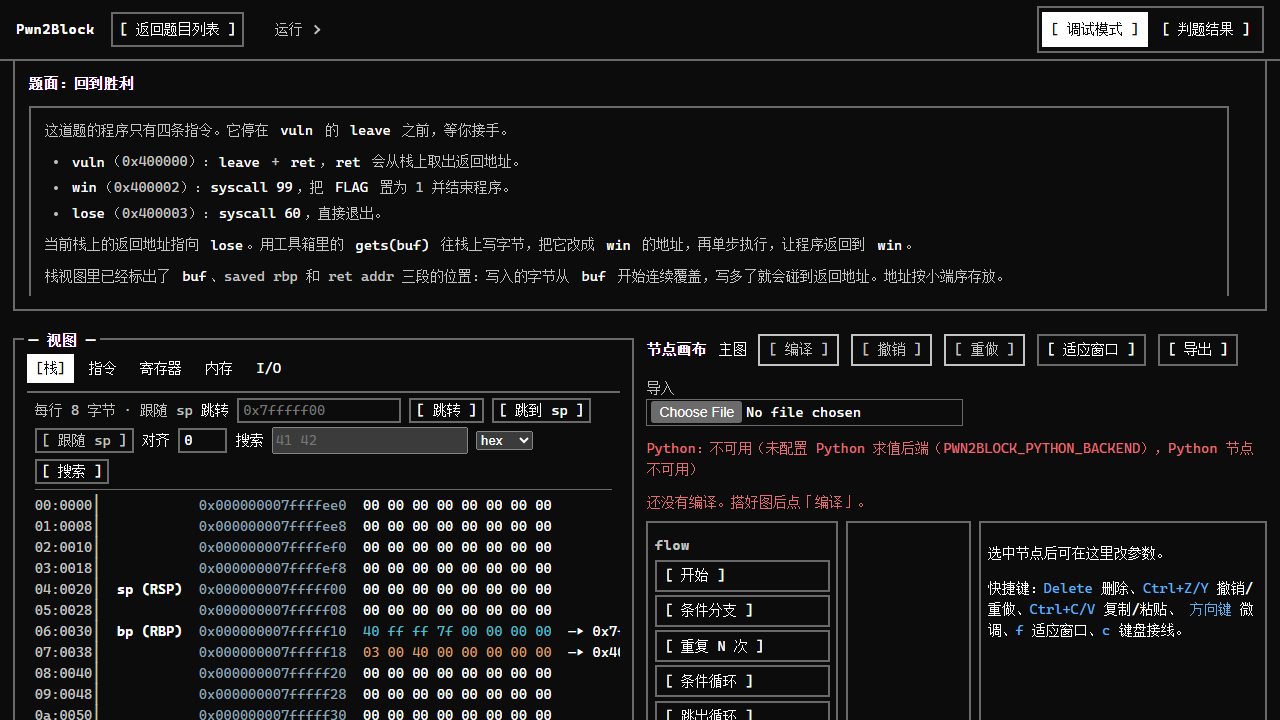
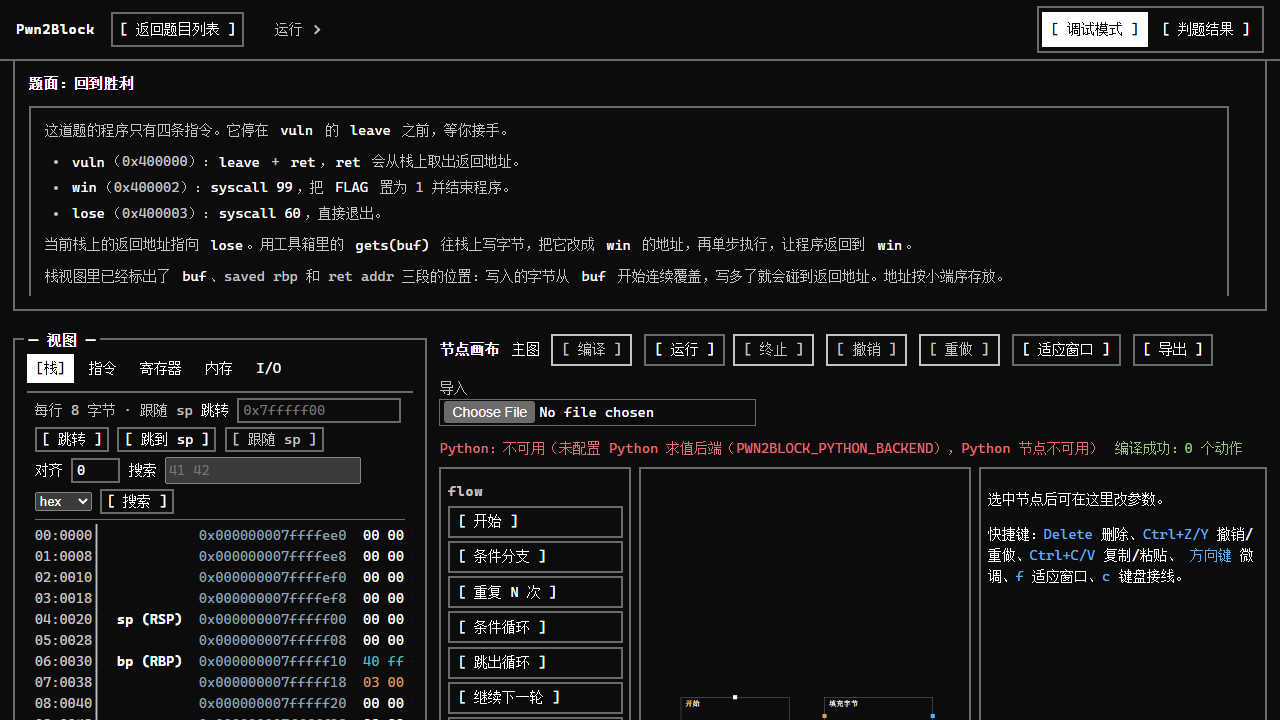
docs: 收尾节点画布与 Python 数据处理实施计划

Changed region(s): [[0.0312, 0.4583, 0.9688, 1.0], [0.75, 0.7333, 0.9688, 0.8861]]

diff --git a/docs/02-已实现需求.md b/docs/02-已实现需求.md
@@ -10,10 +10,10 @@
 - 查看栈、指令、寄存器、内存（含 VMA）和标准 I/O 等状态。视图区一次只显示一个视图，用固定标签切换（本题没有 I/O 时不显示该标签）；标签栏支持 ←/→/Home/End，页面上任意非输入位置可用 Ctrl+↑/↓ 循环。当前标签存在浏览器本地 `p2b:view-tab`，所有题目共用，读取失败或值非法时回到「栈」。
 - 题目带伪代码时，可在视图区的「伪代码」标签页查看出题人写的伪代码（等宽、只读，按 C 语法着色：注释、预处理指令、字符串、数字、关键字、类型、函数名）；没有伪代码的题目不显示该标签。
 - 使用 `write_bytes`、`push`、`pop`、`call`、`ret`、`feed`、`step`、`run`、`undo`、`step_back`、`reset` 等动作。
-- 在 Blockly 中组合 padding、字节、地址、原子动作和题目积木。
-- 改动积木后在浏览器内自动编译为受限的原子动作，不需要手动编译；编译错误列在页面底部的输出区，点击可定位问题积木。原来的程序区已删除。
+- 在节点画布中组合 padding、字节、地址、原子动作、控制流、模块和题目积木。
+- 改动节点后在浏览器内自动编译为受限的原子动作，也可点「编译」重跑；编译错误列在页面底部的输出区，点击「定位」会展开容器并选中问题节点。没有独立程序区。
 - 点 payload 标题栏的「运行」执行整段 payload：先 `reset`，再按单次请求上限分片发送完整动作序列，末尾不补 `run`，与提交判题回放的是同一份序列；画布为空时发 `reset` + `run`。运行中可点「终止」，它只在浏览器侧停止发送后续分片，已发出的请求照常生效，状态栏显示「已终止：执行到动作 n/m」。单步、运行 N 步、后退、撤销、重置和提交判题在顶栏「运行」菜单里。在输出区和状态栏查看失败原因、错误定位、状态变化和回放录像。
-- 逐级查看提示；提示和 Blockly 程序可以按题目保存在浏览器本地。
+- 逐级查看提示；提示和节点画布可以按题目保存在浏览器本地。
 - 提交 payload 进行独立判题；判胜后查看并复制 flag，失败后回到调试继续修改。
 - 刷新页面后恢复已有服务端状态和前端程序指针（在会话仍有效时）。
 
@@ -37,16 +37,16 @@
 - Fastify API 和构建后的前端静态资源可以由单进程提供。
 - 已有单元、集成、验收和浏览器 E2E 测试覆盖核心闭环、边界和安全契约。
 
-## 节点画布（P1–P4、P7，模块进行中）
+## 节点画布与 Python 数据处理（P0–P9 已完成）
 
-节点画布与 Python 数据处理的实施状态见 [07-实施计划](07-节点画布与Python数据处理实施计划.md) 与 [08-技术决策](08-节点画布技术决策.md)。目前已经落地：
+节点画布与 Python 数据处理的实施状态见 [07-实施计划](07-节点画布与Python数据处理实施计划.md) 与 [08-技术决策](08-节点画布技术决策.md)。目前已落地：
 
 - **图模型**：`GraphDocument`（节点、参数、数据连线、执行序列 `main`、布局）有 zod Schema 与版本号，解析失败给出可定位的问题列表；节点种类按阶段列出，参数与端口由节点规格派生。
 - **编译管线**：`compileGraph` 是异步、可取消的纯本地计算：按依赖求值数据节点（整数、字节、地址、拼接、十六进制、算术、比较、位运算、截取、组装、条件选值等），按执行序列生成既有动作协议；成功给出完整产物（动作、来源、预览、追踪），失败列出带节点 id 的错误，绝不发送半成品。求值与动作额度沿用 `packages/shared/src/limits.ts`。
-- **画布与编辑**：`?editor=graph` 打开新画布（工具箱、画布、检查器、编译状态）。支持加删节点、拖动、框选、数据端口拖线、类型/成环校验、双击线断开、执行端口拖动调整顺序、撤销重做、复制粘贴、键盘接线与快捷键；文档按题目存浏览器本地，坏存档退回空图。容器可以折叠（只改布局、可撤销，双击容器或检查器切换），折叠后子节点、区域框与相关连线一起隐藏；缩放低于阈值时隐藏端口名与副标题，只留节点骨架。
+- **画布与编辑**：节点画布是默认且唯一入口（工具箱、画布、检查器、编译状态）。支持加删节点、拖动、框选、数据端口拖线、类型/成环校验、双击线断开、执行端口拖动调整顺序、撤销重做、复制粘贴、键盘接线与快捷键；文档按题目存浏览器本地，坏存档显示原因并保留原文，不会静默退回空图。容器可以折叠（只改布局、可撤销，双击容器或检查器切换），折叠后子节点、区域框与相关连线一起隐藏；缩放低于阈值时隐藏端口名与副标题，只留节点骨架。
 - **分支、循环与变量（P4）**：`control.if`（含「否则如果」链）、`control.repeat`、`control.while/until` 是占据执行位置的容器，子序列存在 `regions` 里；`control.result` 给出容器结果，声明了结果的容器必须在每条可达路径末尾都有结果。`control.break`/`continue` 作用于最近一层循环，`control.index` 给从 0 开始的本轮序号，`control.accumulator` 读上一轮累计值，零次循环结果等于初始值。变量按作用域静态校验（重复声明、未声明、类型不符），运行时按层解析并在赋值后更新缓存版本。循环每轮重算动态依赖（缓存键含作用域、轮次和变量版本），整图共享求值/轮次/动作预算；容器在画布上画出区域框，可把语句拖进区域或「移出容器」，这些编辑都可撤销。
 - **Python 求值服务（P6）与节点接入（P7）**：服务端新增求值接口与隔离运行器，后端可配置为 `none`（默认，明确报不可用）、`docker`（唯一可声称隔离的后端）或 `process`（仅开发，`isolated=false`）；超时、内存、输出、并发、排队与每次编译次数均有上限。运行器自带常用打包与定位序列工具，服务端校验请求后只回值或节点级错误码。画布面板读取 `GET /api/capabilities` 并显示后端与隔离状态；编译经可替换的 `PythonEvaluator` 发 `POST /api/python/eval`，带整图取消信号，语义编辑会取消在途请求，迟到结果不覆盖新产物。没有可用求值器时 Python 节点明确报 `python_unavailable`，不会退回浏览器执行。内置「生成定位序列」「查找序列偏移」与 Python 侧同名工具共用 `shared` 的字母表、宽度与编码规则。
 
-- **模块调用与提取（P5 部分）**：`GraphDocument.modules` 里可以定义数据模块与流程模块（类型化输入、默认可选值、说明、固定版本），调用节点 `module.data` / `module.call` 钉住 `id + 版本`，编译期把模块体展开进当前序列，动作与来源照常生成；模块体有独立作用域与求值缓存，两次调用互不污染，求值步数、循环轮次与 Python 次数仍与主图共享。校验拒绝缺失版本、种类不符、端口不一致、直接/间接递归与超过 4 层的嵌套，数据模块里出现动作或控制结构直接报错。画布可从选区「提取为模块」：要求同一区域连续、容器选全、至多一个外部数据消费者，外部输入/输出改写成调用端口，整步可撤销；选区含动作或控制结构时生成流程模块（可以没有结果），否则生成数据模块。调用节点在检查器里可「升级到 vN」，先比对输入集合、结果有无与类型、调用节点声明的端口，不兼容就拒绝并保留原版本；新版本不会自动影响已有调用。工具箱会列出已定义模块（名称、版本、调用次数），点一下插入填好参数的调用节点。画布支持分组：选中两个以上节点即可框成一组，组只影响显示，不改变执行顺序，删除节点后自动裁掉悬空成员。参数可从「手填」切到「接线」：手填会断开该端口连线，接线缺线时编译报错，手填却仍有线只给警告；按偏移组装的节点逐段显示偏移、长度与来源。**尚未做**：模块编辑界面与面包屑。
-
-**运行链路**：画布编译成功后把动作与来源写进同一个产物追踪器，运行、单步、提交、终止沿用原控制器与分片规则；语义编辑会标记产物过期并取消在途请求。默认入口仍是积木（`?editor=graph` 才是画布），判题仍由后端权威判定，等 P9 统一切换默认入口。
+- **模块调用与提取（P5）**：`GraphDocument.modules` 里可以定义数据模块与流程模块（类型化输入、默认可选值、说明、固定版本），调用节点 `module.data` / `module.call` 钉住 `id + 版本`，编译期把模块体展开进当前序列，动作与来源照常生成；模块体有独立作用域与求值缓存，两次调用互不污染，求值步数、循环轮次与 Python 次数仍与主图共享。校验拒绝缺失版本、种类不符、端口不一致、直接/间接递归与超过 4 层的嵌套，数据模块里出现动作或控制结构直接报错。画布可从选区「提取为模块」：要求同一区域连续、容器选全、至多一个外部数据消费者，外部输入/输出改写成调用端口，整步可撤销；选区含动作或控制结构时生成流程模块（可以没有结果），否则生成数据模块。调用节点在检查器里可「升级到 vN」，先比对输入集合、结果有无与类型、调用节点声明的端口，不兼容就拒绝并保留原版本；新版本不会自动影响已有调用。工具箱会列出已定义模块（名称、版本、调用次数），点一下插入填好参数的调用节点。点面包屑或双击调用可进模块体编辑，返回后主图恢复；来源定位会切进对应模块实例。画布支持分组：选中两个以上节点即可框成一组，组只影响显示，不改变执行顺序，删除节点后自动裁掉悬空成员。参数可从「手填」切到「接线」：手填会断开该端口连线，接线缺线时编译报错，手填却仍有线只给警告；按偏移组装的节点逐段显示偏移、长度与来源。
+- **存档迁移与来源定位（P8）**：存档是带格式、版本、题目、固定版本依赖与文档的包装（`pwn2block.graph-save`），按题目写入独立新键 `pwn2block.graph.v1.<challengeId>`；早期裸文档键和旧 Blockly 键只读保留。旧 Blockly workspace 按白名单单向转换，变量、控制、字节与动作语义尽量保留，不支持项整体拒绝并给出原因，迁移失败不清空也不覆盖原文，可导出 JSON。定位支持节点、模块实例、分支路径和循环轮次，只改布局（展开容器/模块、切视图、选中目标），不重算语义；编译轨迹与数据分段可点击高亮，执行/判题高亮绑定当时的产物版本，编辑后不会误指新图。判题时间线明确是历史录像，不用当前图重算，也不承诺重放 Python。
+- **运行链路与验收（P9）**：画布编译成功后把动作与来源写进同一个产物追踪器，运行、单步、提交、终止沿用原控制器与分片规则；语义编辑会标记产物过期并取消在途请求。Blockly 界面、`payload-panel.ts` 与运行时依赖已删除。真实浏览器 E2E 覆盖画布构造 payload、错误提交、判胜、刷新恢复、编译错误定位、坏存档保留，以及 1280×720 / 1440×900 / 1920×1080 三尺寸布局与键盘路径。

diff --git a/docs/08-节点画布技术决策.md b/docs/08-节点画布技术决策.md
@@ -44,9 +44,9 @@
 - **结果只从协议来**：运行器 stdout 必须是一行符合 `PythonRunnerResultSchema` 的 JSON；
   类型、大小、请求标识都在服务端再校验一遍，对不上就丢弃（迟到结果）。
 
-**现在还不能声称**：本文写作时只在开发机上验证到"后端可切换、协议正确、超时/配额/取消生效"；
-"Docker 后端在目标部署环境跑通、且确实无法访问宿主秘密/网络"需要在部署环境重跑并留证据。
-开发机没有 Docker 时相关用例跳过，跳过不等于通过。
+**现在还不能声称**：开发机（Docker Desktop）与 CI 已用真实 `python:3.12-alpine` 跑通 7 项 Docker 隔离用例；
+"目标部署环境确实无法访问宿主秘密/网络"仍需在部署环境重跑并留证据。CI 用
+`PWN2BLOCK_REQUIRE_PYTHON=1` 把缺镜像从 skip 改为失败；本地无 Docker 时相关用例跳过，跳过不等于通过。
 
 **运行器细节**（`packages/python-runner/`）：
 
@@ -68,7 +68,7 @@
 - Windows 没有 `resource` 模块，RLIMIT 行为只覆盖了降级分支。
 
 **证据**：`packages/server/test/python.test.ts`（桩运行器覆盖协议与配额）、
-`packages/server/test/python-real.test.ts`（真实解释器用例，缺解释器或 Docker 时显式跳过）、
+`packages/server/test/python-real.test.ts`（真实解释器与 Docker 用例；CI 缺后端时显式失败）、
 `packages/python-runner/test_runner.py`（33 条运行器自测）、`packages/python-runner/README.md`。
 
 ## 3. 首批 Python 工具：内置实现，不依赖 pwntools
@@ -83,15 +83,19 @@
 **边界**：跑在运行器里的代码仍然可以 `import` 标准库——系统隔离由容器提供，
 不以"禁用 import"冒充隔离（07 §2）。
 
-## 4. 旧存档迁移：两套存档并存，P8 做单向转换
+## 4. 旧存档迁移：新键只读迁移，旧键永不覆盖
 
-**现状**：Blockly 存档键不变；新画布把 `GraphDocument` 存到
-`pwn2block.graph.<challengeId>`（`components/graph-panel.ts`），两者互不影响。
+**现状（P8 收尾）**：新画布把带格式、版本、题目和依赖的存档写到
+`pwn2block.graph.v1.<challengeId>`；早期裸文档键 `pwn2block.graph.<challengeId>` 与旧 Blockly 键
+`pwn2block.canvas.v1.<challengeId>` 都保留。读取顺序是新键 → 过渡键 → Blockly 键；新键存在但损坏时
+直接报错并保留原文，**不回退**到旧键，避免用户以为旧内容还在。
 
-**P8 计划**：读取旧 workspace → 按支持的积木白名单单向转换成 `GraphDocument` →
-转换失败时**保留原文**并给出导出/提示，不删除旧键、不静默丢弃。
+**迁移**：旧 workspace 按支持的积木白名单单向转成 `GraphDocument`：变量在 `main` 顶部声明为整数 0，
+`vars_set` 转 `var.set`，控制结构展开成 `regions`，字节与动作保持原语义。未知积木、多入口/无入口、
+只读变量或字节变量会拒绝整次迁移并列出原因；失败时原文不删除、不覆盖，面板提供导出 JSON。
 
-**盘点结论**：当前仓库没有需要迁移的外部存档（单机项目、无 remote），实际存档盘点在 P8 开始前完成。
+**不承诺**：迁移只保证受支持积木的动作等价，不保留 Blockly 的视觉布局；旧键不会被清理，回退版本
+仍按旧格式读取，不会声称能编辑新格式的模块/Python 功能。
 
 ## 5. 执行额度：定义在 shared，前后端共用
 
@@ -113,9 +117,11 @@
 **口径一致**：前端求值器与服务端共用同一组常量；服务端对客户端传入的每个请求再校验一次，
 不假设客户端守规矩。
 
-## 6. 已知未做
+## 6. 收尾状态
 
-- 画布默认入口仍是积木，新画布在 `?editor=graph` 后面；运行与提交在 P9 切换。
-- Python 结果目前只进编译预览，尚未接入“运行/提交”链路（P7/P9）。
-- 模块目前只能提取纯数据选区；流程模块提取、模块列表/面包屑、显式升级与端口兼容性预检未做（P5 剩余）。
-- 容器分组与存档迁移（P8）未开始。
+P0–P9 已全部完成（2026-11-05）：画布是默认且唯一的 payload 编辑器，Blockly 界面与运行时依赖已删除；
+运行、单步与提交都消费画布产物；旧存档只读迁移保留。真实浏览器 E2E 覆盖画布判胜、错误定位、
+坏存档保留、键盘与三种桌面尺寸，CI 同时跑真实 Docker 隔离与画布 E2E。
+
+仍需在**目标部署环境**按 [09-部署与诊断](09-Python求值部署与诊断.md) 复跑隔离验收；开发机与 CI
+已用真实镜像通过，但宿主 Docker/内核配置不同，不能用开发机结果替代部署验证。

diff --git a/README.md b/README.md
@@ -1,6 +1,6 @@
 # Pwn2Block
 
-面向 CTF 新生赛的内存可视化 Pwn 实验室。学习者用 Blockly 积木拼装 payload，交给后端权威 VM 执行，观察栈、寄存器、指令和 I/O 的变化，在过程中理解栈帧、缓冲区溢出和返回地址劫持。
+面向 CTF 新生赛的内存可视化 Pwn 实验室。学习者用节点画布拼装 payload，交给后端权威 VM 执行，观察栈、寄存器、指令和 I/O 的变化，在过程中理解栈帧、缓冲区溢出和返回地址劫持。
 
 它不是浏览器里的 Linux 或 x86 模拟器，只实现教学所需的受控指令、内存区域（VMA）、syscall 和判题能力。
 
@@ -8,7 +8,7 @@
 
 1. 选一道题，阅读题面和公开内存布局。
 2. 在调试实例里单步、运行、后退、撤销，观察状态变化。
-3. 用积木组合 padding、字节、地址和原子动作，改动后自动编译。
+3. 在节点画布上用字节、地址、运算、分支/循环和题目动作拼装 payload，改动后在浏览器内自动编译。
 4. 提交判题：服务端从初始状态回放 payload，判胜后下发 flag。
 
 调试实例里的「已满足」只表示当前试验状态满足条件，不发 flag；只有判题实例的回放结果算数。
@@ -43,6 +43,7 @@ node --env-file=.env.example --import tsx packages/server/src/index.ts
 - 每道题的 flag 变量名是 `FLAG_<ID大写>`，例如 `FLAG_RET2WIN`。缺失或为空时该题拒绝加载。
 - 端口用 `PORT` 覆盖，默认 8787；监听地址固定为 `127.0.0.1`。
 - 会话只存在服务端内存里，重启后丢失。
+- Python 节点默认不可用；要在部署环境启用隔离求值，按 [09-Python 求值部署与诊断](docs/09-Python求值部署与诊断.md) 配置 `PWN2BLOCK_PYTHON_BACKEND=docker` 并准备镜像。普通 `process` 后端只用于开发，不算隔离。
 
 开发时用 `pnpm dev` 同时起 server 和 Vite（5173 端口，`/api` 代理到后端），同样需要先在环境中设置 `FLAG_*`。
 
@@ -80,7 +81,7 @@ node --env-file=.env.example --import tsx packages/server/src/index.ts
 packages/shared/     前后端共享的类型与 Schema
 packages/engine/     VM 引擎：纯函数 + COW 内存，不依赖 HTTP
 packages/server/     Fastify：题目加载、会话、REST、静态托管
-packages/web/        Vite + Lit + Blockly 单页应用
+packages/web/        Vite + Lit 单页应用：节点画布、状态视图与回放
 packages/authoring/  出题 CLI：new、asm、check、solve
 challenges/          题目包（public.json 对外，private.json 只在服务端）
 presets/             默认编码表
@@ -95,6 +96,8 @@ presets/             默认编码表
 - [基本架构](docs/01-基本架构.md)：分层、请求流和安全边界
 - [已实现需求](docs/02-已实现需求.md) / [未实现需求](docs/03-未实现需求.md)
 - [已完成工作](docs/04-已完成工作.md) / [未完成工作](docs/05-未完成工作.md)
+- [节点画布与 Python 数据处理需求](docs/06-节点画布与Python数据处理需求.md) / [实施计划](docs/07-节点画布与Python数据处理实施计划.md) / [技术决策](docs/08-节点画布技术决策.md)
+- [Python 求值部署与诊断](docs/09-Python求值部署与诊断.md)
 - [MVP 归档](docs/archive/mvp-2026-10-16/README.md)：VM、题目包格式、API、出题指南、部署说明等详细规范
 
 贡献约定（分支、提交、测试要求）见 [CLAUDE.md](CLAUDE.md)。flag 真值、`.env` 和凭证不得进 git。

diff --git a/docs/05-未完成工作.md b/docs/05-未完成工作.md
@@ -9,7 +9,7 @@ MVP 已完成，以下事项是后续收尾或增强工作，不改变当前 MVP
 - **T03**：补齐 stdin/stdout 4KB 边界和多请求累计限制验证。
 - **T04**：补齐未声明 syscall 调用号的专项拒绝验证。
 - **T05**：补齐更多位宽、权限、请求交错、错误路径、长时间资源压力及其他桌面浏览器复测。
-- **T06**：把覆盖率门槛和真实 E2E 纳入 CI 的强制门禁，并形成一次完整回归记录。
+- **T06**：把覆盖率门槛纳入 CI 的强制门禁。真实 E2E 已进 CI（生产构建 + 真实后端 + Python 隔离），仍缺引擎覆盖率阈值检查。
 
 这些是专项验证和证据收口，不代表对应核心功能不存在。
 
@@ -21,7 +21,7 @@ MVP 已完成，以下事项是后续收尾或增强工作，不改变当前 MVP
 - 补充 Linux/macOS 的真实部署验证；目前已有命令和语法检查，但主要运行证据来自 Windows。
 - 评估前端构建产物拆包和长期运行资源占用，处理已记录的构建体积警告。
 - 前端 TUI 化遗留项：
-  - 体量：`viewmodel/controller.ts`（约 950 行）和 `tests/e2e/closed-loop.spec.ts`（约 1160 行）仍超过 800 行上限，需要按功能拆分。
+  - 体量：`viewmodel/controller.ts`（约 950 行）仍超过 800 行上限，需要按功能拆分；`tests/e2e/closed-loop.spec.ts` 已随画布重写拆到约 160 行。
   - 交互：
     - 「运行 / 终止」聚焦时，较长的禁用原因可能盖住面板标题。
     - 运行进行中点「返回题目列表」没有反馈。
@@ -35,10 +35,9 @@ MVP 已完成，以下事项是后续收尾或增强工作，不改变当前 MVP
 
 ## 3. 下一阶段产品工作
 
-- **节点画布与 Python 数据处理**：P3、P5 已全部完成；按 [07-实施计划](07-节点画布与Python数据处理实施计划.md) 继续 P8、P9，具体剩余项见 [03-未实现需求](03-未实现需求.md) 末节与 [08-技术决策](08-节点画布技术决策.md)；Python 部署口径见 [09-部署与诊断](09-Python求值部署与诊断.md)。其中三件要优先补上证据：
-  - Docker 后端在目标部署环境的隔离验证（无 Docker 时的跳过不算通过）。
-  - 画布在真实浏览器里的交互验收：缩放锚点、框选、键盘接线、卸载重建。
-  - 画布产物接入运行/提交链路后的回归，确认与积木路径行为一致（接线已完成，缺真机浏览器验收）。
+- **节点画布与 Python 数据处理**：P0–P9 已全部完成，画布是默认且唯一的 payload 编辑器。后续只需补两类证据：
+  - Docker 后端在**目标部署环境**的隔离验证（开发机与 CI 已跑通，无 Docker 时的跳过不算通过）。
+  - 人工视觉/读屏验收记录；1280×720、1440×900、1920×1080 的自动截图与布局/键盘断言已在 `pnpm e2e` 中。
 - 先设计持久化、认证、权限和成绩模型，再实现账号和进度功能。
 - 设计题目版本、发布、审核和签名机制，再开放更大范围的题目协作。
 - 在确认多用户隔离和资源治理方案后，再考虑公网部署、赛事模式和平台集成。

diff --git a/docs/03-未实现需求.md b/docs/03-未实现需求.md
@@ -1,4 +1,4 @@
-# Pwn2Block 未实现需求
+# Pwn2Block 未实现需求
 
 下面是明确不属于当前 MVP、目前没有实现的需求。它们不是 MVP 缺陷；如要实现，应单独立项并重新定义安全和数据契约。
 
@@ -27,18 +27,19 @@
 
 ## 前端与体验
 
-- Blockly 的完整无障碍键盘导航。
+- 节点画布的完整无障碍键盘导航与真实读屏验收（当前有键盘操作与焦点管理，但没有读屏报告）。
 - 其他浏览器和移动端的完整适配。
 - 面向生产的性能拆包、长期压力优化和可观测性面板。
 
-## 节点画布与 Python 数据处理（进行中）
+## 节点画布与 Python 数据处理（已完成）
 
-这些是已立项、正在按 [07-实施计划](07-节点画布与Python数据处理实施计划.md) 推进的能力，不属于 MVP 缺陷；P0–P3 与 P6 已落地，下列尚未完成：
+[07-实施计划](07-节点画布与Python数据处理实施计划.md) 的 P0–P9 已全部落地：控制流、变量、模块提取/调用/版本、Python 节点与工具、旧存档单向迁移、完整来源定位、默认入口切换、Blockly 清理与全量验收。下列不再属于未实现需求：
 
-- 控制流节点（分支、循环、跳出/继续）与区域容器渲染（P4）。
-- 变量声明、赋值与作用域（P4）。
-- 模块提取、调用与版本（P5）。
-- Python 节点接入执行链路、定位序列工具与数据预览的完整验收（P7）。
-- 旧积木存档向 `GraphDocument` 的单向迁移、失败时的原文导出（P8）。
-- 画布默认入口切换、积木路径清理与全量验收（P9）。
-- Docker 后端在目标部署环境上的隔离验证：开发机没有 Docker 时相关用例跳过，跳过不等于通过。
+- 控制流节点（分支、循环、跳出/继续）与区域容器渲染：已实现。
+- 变量声明、赋值与作用域：已实现。
+- 模块提取、调用与版本：已实现。
+- Python 节点接入执行链路、定位序列工具与数据预览：已实现。
+- 旧积木存档向 `GraphDocument` 的单向迁移、失败时的原文导出：已实现。
+- 画布默认入口切换、积木路径清理与全量验收：已实现。
+
+仍建议在**目标部署环境**按 [09-部署验收清单](09-Python求值部署与诊断.md) 复跑 Docker 隔离验证：开发机与 CI 已用真实镜像跑通，但生产宿主的 Docker/内核配置需要各自确认，缺后端时测试必须显式失败而不是跳过。

diff --git a/docs/README.md b/docs/README.md
@@ -4,7 +4,7 @@
 
 **MVP 已完成（2026-10-16）。** 本目录现在只保留面向日常开发和使用的简洁说明；MVP 阶段的详细设计、契约、验收记录和本地试用记录已归档到 [`archive/mvp-2026-10-16/`](archive/mvp-2026-10-16/)。
 
-归档文档中的“未完成”“候选版”“G4 未放行”等表述属于当时的过程记录，不代表当前项目状态。当前状态以本目录的 01–05 文档为准；06 为已审查通过的后续需求，07 为对应实施计划，08 为实施中的 P0 决策记录。节点画布目前处在 P1–P3（模型、编译、画布与基础预览）已落地、P4 之后未开始的状态，运行与提交仍走积木。
+归档文档中的“未完成”“候选版”“G4 未放行”等表述属于当时的过程记录，不代表当前项目状态。当前状态以本目录的 01–05 文档为准；06 为已审查通过并已实现的需求，07 为对应实施计划（P0–P9 全部完成），08 为实施中的技术决策记录。节点画布已是默认且唯一的 payload 编辑器，Blockly 界面与运行时依赖已移除；旧积木存档只在新存档缺席时只读迁移，失败时保留原文并可导出。
 
 ## 当前文档
 
@@ -15,7 +15,7 @@
 | [03-未实现需求](03-未实现需求.md) | 明确不属于 MVP、尚未实现的后续需求 |
 | [04-已完成工作](04-已完成工作.md) | MVP 阶段已经交付的代码、题目、测试和文档工作 |
 | [05-未完成工作](05-未完成工作.md) | 不阻塞 MVP 的验收债务、工程收尾和后续改进 |
-| [06-节点画布与Python数据处理需求](06-节点画布与Python数据处理需求.md) | 已审查、待实现：节点画布、控制流、Python 数据处理与模块封装 |
+| [06-节点画布与Python数据处理需求](06-节点画布与Python数据处理需求.md) | 已审查、已实现：节点画布、控制流、Python 数据处理与模块封装 |
 | [07-节点画布与Python数据处理实施计划](07-节点画布与Python数据处理实施计划.md) | 分阶段实施：依赖、任务、迁移与验收 |
 | [08-节点画布技术决策](08-节点画布技术决策.md) | P0 决策：画布技术、Python 隔离、工具范围、存档迁移与额度 |
 | [09-Python求值部署与诊断](09-Python求值部署与诊断.md) | Python 后端启动、额度、诊断与部署验收清单 |

diff --git a/docs/09-Python求值部署与诊断.md b/docs/09-Python求值部署与诊断.md
@@ -53,7 +53,7 @@ pnpm start
 
 - `GET /api/capabilities`：后端、是否隔离、不可用原因。启动失败也走这里，不会静默回退。
 - 日志事件 `python_unavailable` / `python_spawn_failed` / `python_timeout` / `python_overflow` / `python_cancelled`：都带节点级原因，不泄露宿主路径或秘密。
-- 本机自检：`pnpm test:python`（真实后端用例；没有 Docker 守护进程时相关 7 项**跳过**，跳过不等于通过）。
+- 本机自检：`pnpm test:python`（真实后端用例；没有 Docker 守护进程时相关 7 项**跳过**，跳过不等于通过）。CI 与发布前用 `PWN2BLOCK_REQUIRE_PYTHON=1` 跑同一组用例，缺解释器或镜像直接失败。
 - 浏览器端：画布面板顶部显示 Python 状态；语义编辑会取消在途请求，迟到结果不覆盖新产物。
 
 ## 5. 部署验收清单（缺一不可）
@@ -62,6 +62,6 @@ pnpm start
 2. 容器内无网络：`socket` 连接被拒；无宿主文件：读取 `/etc/passwd` 之外的挂载点不存在；`subprocess`/`fork` 受 pids 限制。
 3. 大整数、字节输出、异常、死循环、输出超额、取消、排队上限各跑一遍，错误文案不含宿主路径。
 4. 任务间状态隔离：连续两次求值互不可见，临时目录在结束后被删除。
-5. 在目标机器上重跑 `pnpm test:python`，确认那 7 项**真正执行**且通过。
+5. 在目标机器上重跑 `pnpm test:python`，确认那 7 项**真正执行**且通过；发布验收用 `PWN2BLOCK_REQUIRE_PYTHON=1`，禁止把跳过当通过。
 
-第 5 项已在本机（Docker Desktop + python:3.12-alpine）跑通：python-real 19/19 通过；目标部署环境仍需按本清单复跑后再对外声称已验证。
+第 5 项已在本机（Docker Desktop + python:3.12-alpine）与 CI 跑通：python-real 19/19 通过，CI 会先 `docker pull python:3.12-alpine` 再以 `PWN2BLOCK_REQUIRE_PYTHON=1` 执行；目标部署环境仍需按本清单复跑后再对外声称已验证。

diff --git a/docs/06-节点画布与Python数据处理需求.md b/docs/06-节点画布与Python数据处理需求.md
@@ -1,6 +1,6 @@
 # 节点画布与 Python 数据处理需求
 
-状态：已审查通过（待实现）
+状态：已审查通过，已实现（P0–P9；验收证据见 [07-实施计划](07-节点画布与Python数据处理实施计划.md)）
 
 日期：2026-10-18
 
